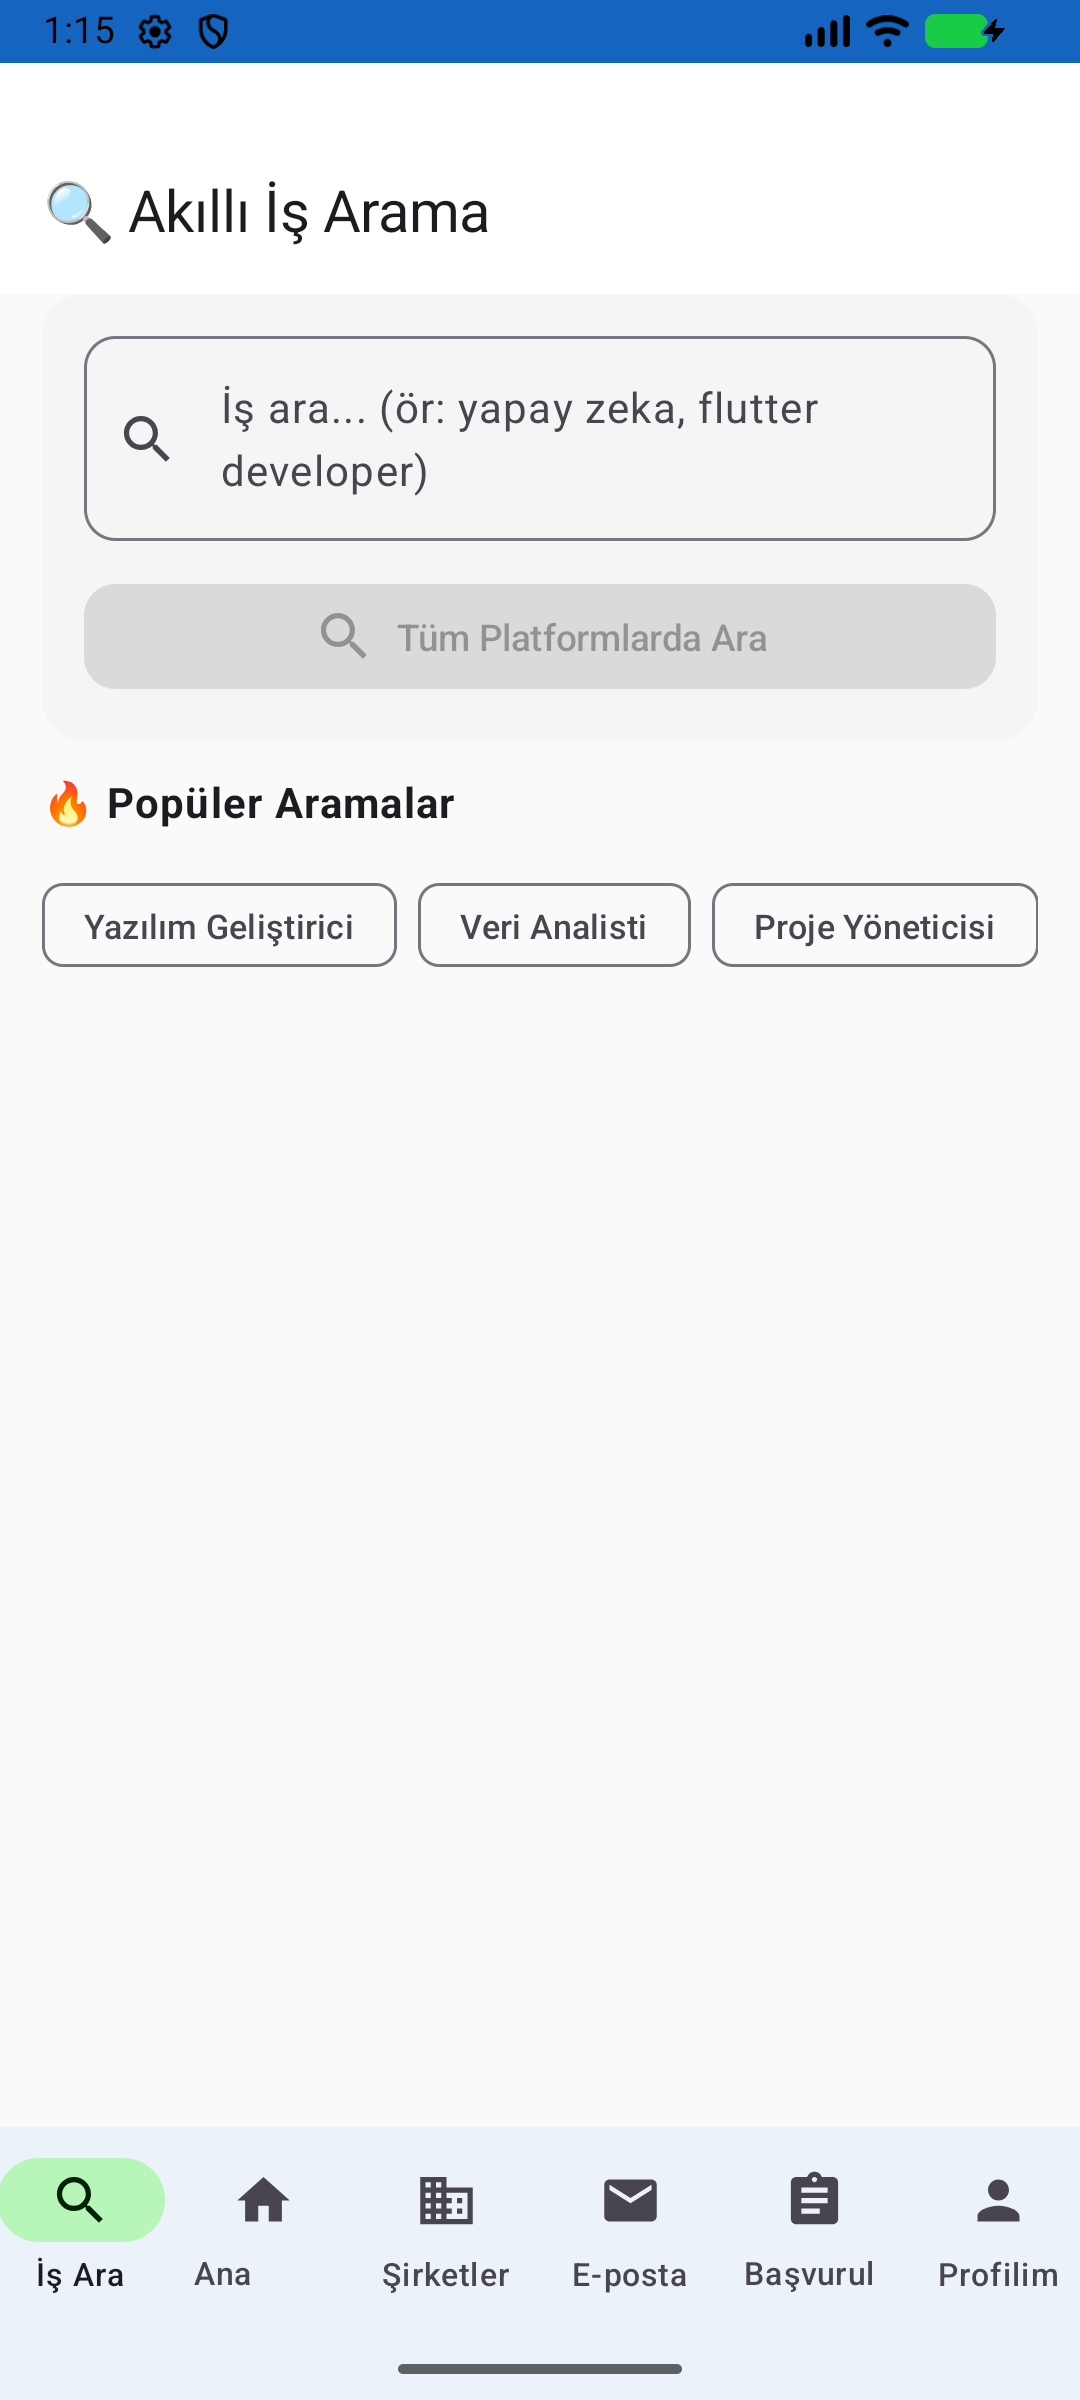
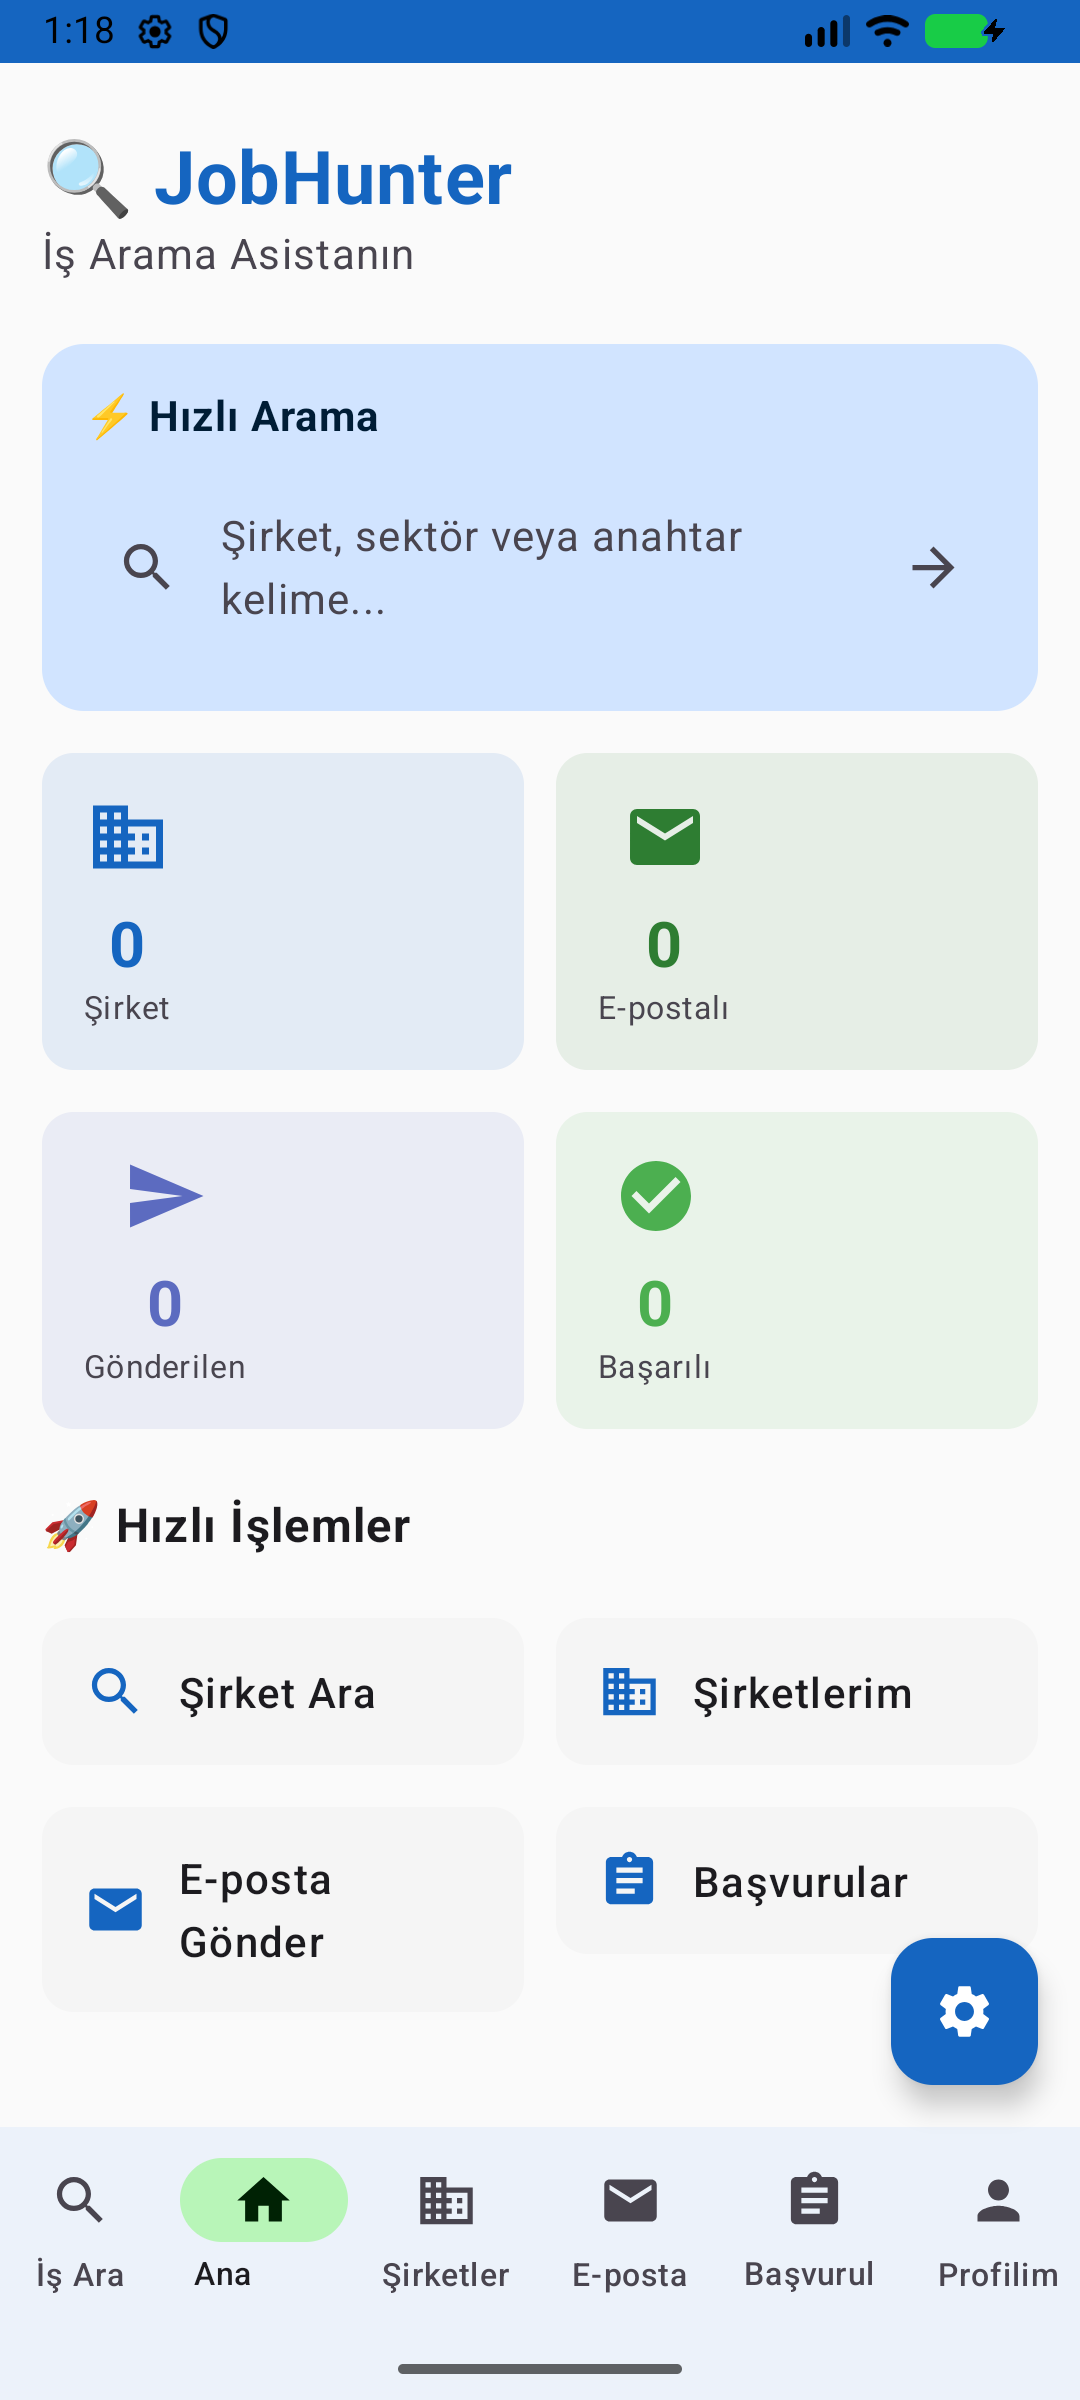
Ekran goruntuleri alti sekmeye gore duzenlendi
Generated with Codebuff

diff --git a/README.md b/README.md
@@ -4,13 +4,19 @@ Android için geliştirilmiş, yapay zeka destekli iş arama ve otomatik başvur
 
 ## 📱 Ekran Görüntüleri
 
-| Ana ekran | İş arama | Başvurular |
+| Ana ekran | İş arama | Şirketler |
 |---|---|---|
-| ![Ana ekran](docs/screenshots/01-ana-ekran.png) | ![İş arama](docs/screenshots/02-is-arama.png) | ![Başvurular](docs/screenshots/03-basvurular.png) |
+| ![Ana ekran](docs/screenshots/01-ana-ekran.png) | ![İş arama](docs/screenshots/02-is-arama.png) | ![Şirketler](docs/screenshots/03-sirketler.png) |
 
-| E-posta | Profilim |
-|---|---|
-| ![E-posta](docs/screenshots/04-eposta.png) | ![Profilim](docs/screenshots/05-profilim.png) |
+| E-posta | Başvurular | Profilim |
+|---|---|---|
+| ![E-posta](docs/screenshots/04-eposta.png) | ![Başvurular](docs/screenshots/05-basvurular.png) | ![Profilim](docs/screenshots/06-profilim.png) |
+
+## 📥 APK
+
+[JobHunter-v2.0.0-debug.apk](JobHunter-v2.0.0-debug.apk) — depodan doğrudan indirilebilir.
+Kurulum için telefonda bilinmeyen kaynaklara izin vermen gerekiyor.
+
 
 ## 📥 APK
 
